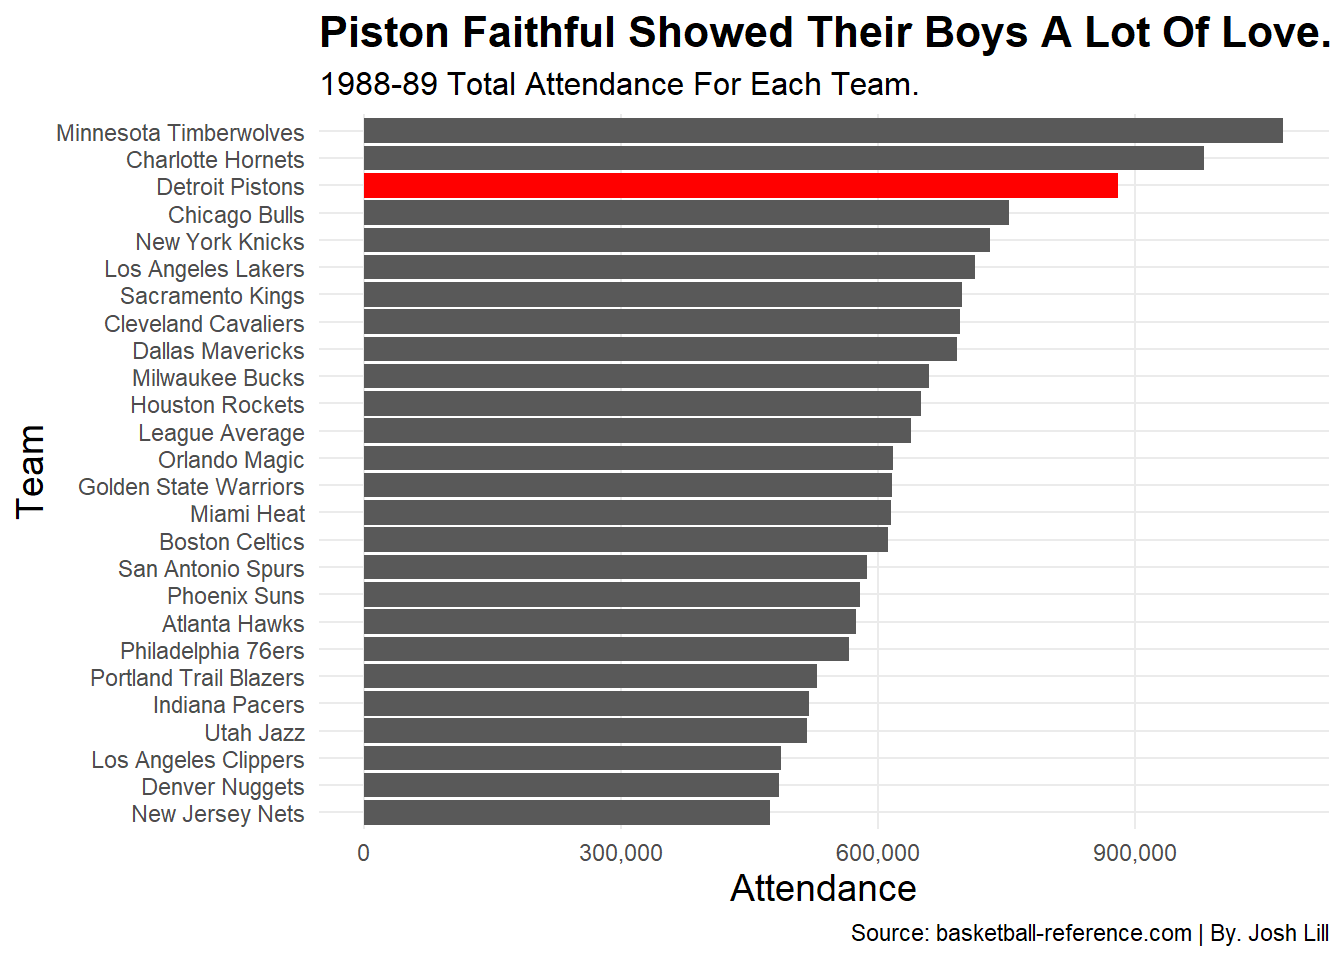
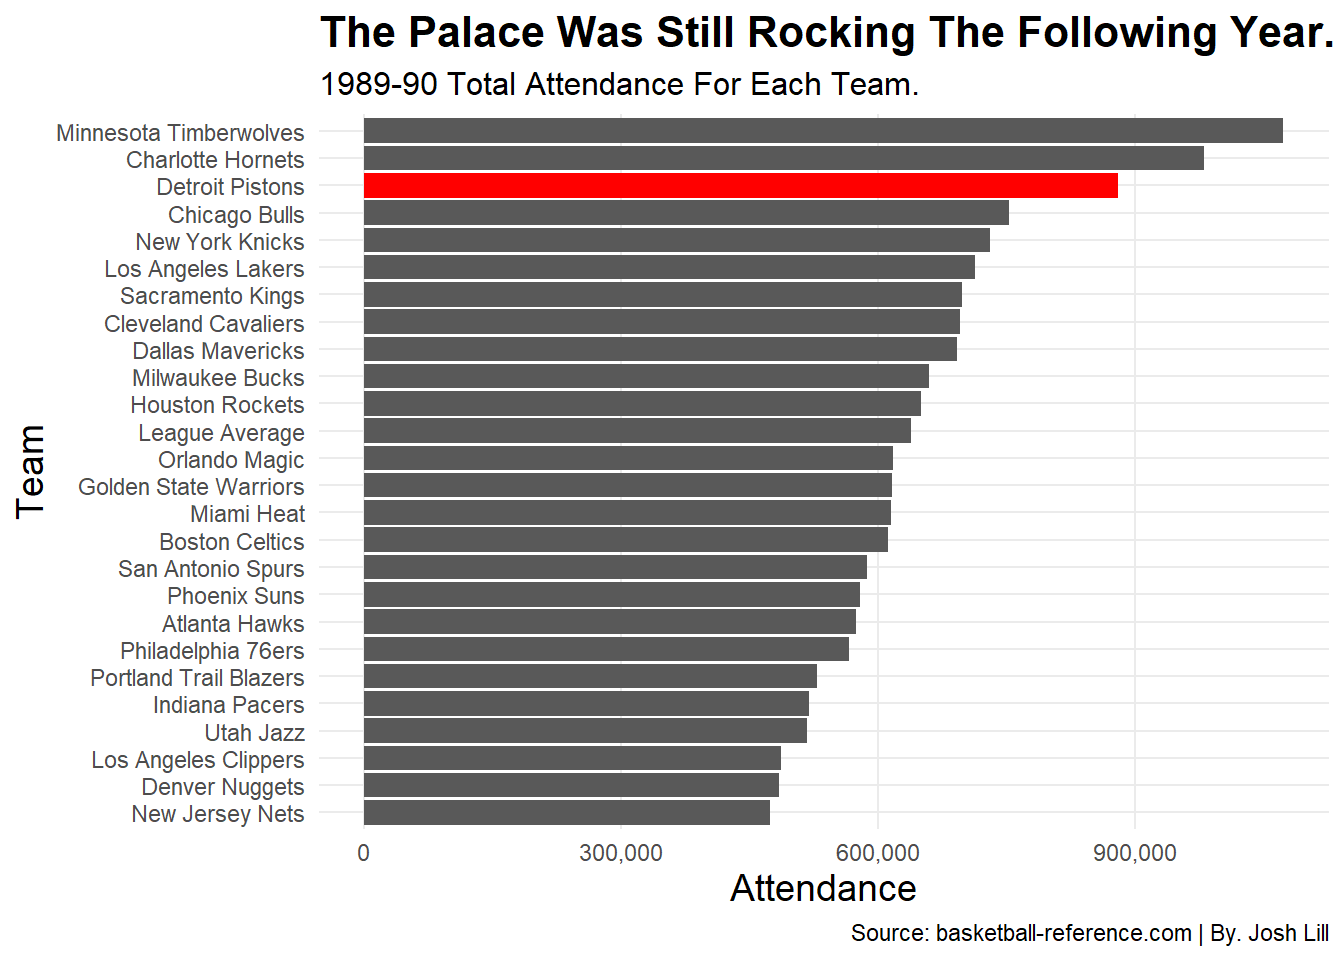
Really close
rellly close

Changed region(s): [[0.2188, 0.0, 1.0, 0.0938]]

diff --git a/2022/04/26/what-made-the-detroit-bad-boy-pistons-so-bad/index.html b/2022/04/26/what-made-the-detroit-bad-boy-pistons-so-bad/index.html
@@ -71,7 +71,7 @@
 
 
 <p>The Detroit “Bad Boy” Pistons. Made up of Isiah Thomas, Bill Laimbeer, Dennis Rodman, John Salley, Joe Dumars and more, the fierce, two-time, back-to-back NBA champions from the “Motor City” ruled basketball in the late 1980s and early 1990s.</p>
-<p>Though, their playing style was not taken to NBA fans and cities, besides Detroit, the Pistons were not trying to be crowd-pleasers. Their unorthodox style of play was not considered “Showtime” like the Lakers nor pure domination in every area like the Boston Celtics.</p>
+<p>Though, their playing style was not taken to by NBA fans and cities, besides Detroit, the Pistons were not trying to be crowd-pleasers. Their unorthodox style of play was not considered “Showtime” like the Lakers nor pure domination in every area like the Boston Celtics.</p>
 <p>So, then what did make these Pistons so “bad?”</p>
 <p>The combination of aggressive play on the court tied in with their superb defensive skills gave them the opportunity to take over the league with a new style of play.</p>
 <p>During this time, Detroit was in the top two for most wins in each of the two seasons they won titles.</p>
@@ -1035,17 +1035,17 @@
   
 </table>
 </div>
-<p>The Pistons won back-to-back titles in the 1988-89 and the 1989-90 seasons. Detroit’s blue-collared and tough basketball philosophy, preached to them by the late, great, Chuck Daly, gave them an edge in a lot of areas that teams in the NBA didn’t primarily focus on.</p>
+<p>The Pistons won back-to-back titles in the 1988-89 and 1989-90 seasons. Detroit’s blue-collared and tough basketball philosophy, preached to them by the late, great, Chuck Daly, gave them an edge in a lot of areas that teams in the NBA didn’t primarily focus on.</p>
 <p>One of those areas: rebounding.</p>
-<p>It’s such a big part of the game of basketball that you can’t really win without it. However, the saying does go, “Offense wins you games, defense wins you championships.” This was the reason they were so utterly dominant in the two seasons they won championships. With their defense came their play on the glass. Crashing the boards was what they did best.</p>
+<p>It’s such a big part of the game of basketball that you can’t really win without it. However, the saying does go, “Offense wins you games, defense wins you championships.” This was the reason they were so utterly dominant in the two seasons they won titles. With their defense came their play on the glass. Crashing the boards was what they did best.</p>
 <p>They were top 10 in defensive rebounds and total rebounds in both of those seasons. As a team that was in the bottom half of the league in points per game, their constant push to get boards gave them extra chances when, if rebounding wasn’t such a big part of their game, they shouldn’t have.</p>
 <p><img src="http://j-lill1102.github.io/2022/04/26/what-made-the-detroit-bad-boy-pistons-so-bad/index_files/figure-html/unnamed-chunk-7-1.png" width="672" /></p>
 <p><img src="http://j-lill1102.github.io/2022/04/26/what-made-the-detroit-bad-boy-pistons-so-bad/index_files/figure-html/unnamed-chunk-9-1.png" width="672" />
-Part of reason for their success here was Southeastern Oklahoma State University alumni, Dennis Rodman, and former Notre Dame Fightin’ Irish big man, Bill Laimbeer, averaged a combined 38.3 rebounds per game.</p>
-<p>Not only were they locked in on grabbing boards off of the glass, but their defensive ratings in each of the two seasons they were crowned champions were ranked third in the 1988-89 campaign at a defensive rating of 104.7 and then second in the following year with a rating of 103.5.</p>
+Part of reason for their success here was Southeastern Oklahoma State University alumni, Dennis Rodman, and former Notre Dame Fightin’ Irish big man, Bill Laimbeer, averaged a combined 38.3 rebounds per game in those two seasons they were champions.</p>
+<p>Not only were they locked in on grabbing boards off of the glass, but their defensive ratings in each of those two seasons were ranked third in the 1988-89 campaign at a defensive rating of 104.7 and then second in the following year with a rating of 103.5.</p>
 <p>Now, everyone is always talking about their stellar defensive play and how it carried their sub-par offense, which was the 10th lowest scoring offense in the 1988-89 season at 106.6 points per game and the ninth lowest in 1989-90 season with 104.3 points per game.</p>
 <p>The other factor that the “Bad Boy” Pistons had one their side was the mental factor.</p>
-<p>The energy of the crowd at the Palace at Auburn Hills, the physicality and brutal force of nature that those Pistons were all helped them to be able to wear down their opponents and frustrate them with ease.</p>
+<p>The energy of the crowd at the Palace at Auburn Hills and the physicality and brutal force of nature that those Pistons were all helped them to be able to wear down their opponents and frustrate them with ease.</p>
 <p>Detroit was top three in the NBA in total attendance in the two years they brought home the hardware.</p>
 <p><img src="http://j-lill1102.github.io/2022/04/26/what-made-the-detroit-bad-boy-pistons-so-bad/index_files/figure-html/unnamed-chunk-11-1.png" width="672" /></p>
 <p><img src="http://j-lill1102.github.io/2022/04/26/what-made-the-detroit-bad-boy-pistons-so-bad/index_files/figure-html/unnamed-chunk-13-1.png" width="672" />
@@ -1056,7 +1056,7 @@ The exhilarating crowd only put fuel on the fire for the Pistons to play very ag
 <p><img src="http://j-lill1102.github.io/2022/04/26/what-made-the-detroit-bad-boy-pistons-so-bad/index_files/figure-html/unnamed-chunk-17-1.png" width="672" /></p>
 <p>Detroit, from the Bad Boy era, eventually ended up having six players make the all-time top 125 for most personal fouls.</p>
 <p>Those players: James Edwards, Bill Laimbeer, Rick Mahorn, Isiah Thomas, Dennis Rodman and Daryl Dawkins.</p>
-<p>Looking back, Detroit made basketball tough. Their hard-nosed grit and determination win their own way and not the league’s way set them apart from others. They showed that you didn’t necisarrliy need to be the best and flashiest offense to win. There defense and on-court antics helped make up for.</p>
+<p>Looking back, Detroit made basketball tough. Their hard-nosed grit and determination to win their own way and not the league’s way set them apart from others. They showed that you didn’t necessarily need to be the best and flashiest offense to win. Their defense and on-court antics helped make up for.</p>
 <p>It would be interesting to see how long their style of play would have lasted in today’s NBA.</p>
 <p>Note: The code that made this blog possible can be found <a href="https://github.com/j-lill1102/j-lill1102.github.io">here</a>.</p>
 
